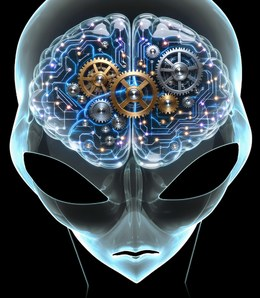
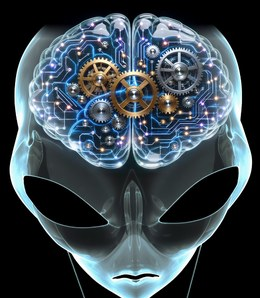
Clear wallpaper: head moved down, brain stays; eye-hold spots follow

diff --git a/app/src/main/java/com/jp/otherworld/wallpaper/Wallpapers.kt b/app/src/main/java/com/jp/otherworld/wallpaper/Wallpapers.kt
@@ -197,6 +197,8 @@ open class AlienWallpaperService : WallpaperService() {
     open val withBrain = false
     /** Brain picture, already fitted to this alien's head (face-sized, 2×). */
     open val brainAsset = "alien_brain_layer.webp"
+    /** Moves the face down by this share of its height (the brain stays put). */
+    open val faceDrop = 0f
     override fun onCreateEngine(): Engine = AlienEngine()
 
     private inner class AlienEngine : Engine(), android.hardware.SensorEventListener {
@@ -392,7 +394,8 @@ open class AlienWallpaperService : WallpaperService() {
                 val place = alienPlace(c.width.toFloat(), c.height.toFloat(), alien.width, alien.height)
                 val sc = place.width() / alien.width
                 val aw = place.width(); val ah = place.height()
-                val l = place.left + moveX; val top = place.top + float + moveY
+                val drop = place.height() * faceDrop
+                val l = place.left + moveX; val top = place.top + float + moveY + drop
                 val g = 1.12f
                 // Hidden drawer: 0 = whole face, 1 = broken apart and gone.
                 val gone = com.jp.otherworld.data.AlienSignals.shatterProgress(now)
@@ -422,7 +425,9 @@ open class AlienWallpaperService : WallpaperService() {
                 // out below the eyes; same size as the face at 2×). Screened, so it glows through the mesh
                 // exactly as if it sat behind it (screen works the same in either order).
                 brain?.let { b ->
-                    brainRect.set(0f, 0f, alien.width.toFloat(), alien.height.toFloat())
+                    // Same place as before the face moved down: undo the drop for the brain.
+                    val up = alien.height * faceDrop
+                    brainRect.set(0f, -up, alien.width.toFloat(), alien.height - up)
                     c.drawBitmap(b, null, brainRect, brainPaint)
                 }
                 c.restoreToCount(save)
@@ -536,6 +541,7 @@ class AlienClearWallpaperService : AlienWallpaperService() {
     override val seam = 0xFFE8FBFF.toInt()
     override val withBrain = true
     override val brainAsset = "alien_clear_brain_layer.webp"
+    override val faceDrop = CLEAR_FACE_DROP
 }
 
 /** White (ice) alien with the user's brain (art/originals/brain.svg) glowing inside the skull. */
@@ -603,6 +609,13 @@ fun alienPlace(w: Float, h: Float, iw: Int, ih: Int): RectF {
 }
 private const val ALIEN_KEEP_W = 0.85f   // share of the face's width always on screen
 private const val ALIEN_EYES_Y = 0.58f   // eye line, as a fraction of the image height
+
+const val CLEAR_FACE_DROP = 0.08f
+
+/** How far the set alien wallpaper's face is moved down (share of its height), for placing its eyes. */
+fun alienFaceDrop(context: android.content.Context): Float = runCatching {
+    if (android.app.WallpaperManager.getInstance(context).wallpaperInfo?.serviceName?.endsWith("AlienClearWallpaperService") == true) CLEAR_FACE_DROP else 0f
+}.getOrDefault(0f)
 
 /** Alien image size (width, height) — needed to place the eyes on screen the way the wallpaper does. */
 fun alienSize(context: android.content.Context): Pair<Int, Int> {

diff --git a/app/src/main/java/com/jp/otherworld/HomeActivity.kt b/app/src/main/java/com/jp/otherworld/HomeActivity.kt
@@ -203,10 +203,10 @@ class HomeActivity : ComponentActivity() {
             }
 
             var eyesHeld by remember { mutableStateOf(false) }
-            val alienEyes by produceState<AlienEyes?>(null) {
+            val alienEyes by produceState<AlienEyes?>(null, homePresses) {
                 value = withContext(Dispatchers.Default) {
                     val (w, h) = com.jp.otherworld.wallpaper.alienSize(context)
-                    AlienEyes(com.jp.otherworld.wallpaper.alienEyeSpots(context), w, h)
+                    AlienEyes(com.jp.otherworld.wallpaper.alienEyeSpots(context), w, h, com.jp.otherworld.wallpaper.alienFaceDrop(context))
                 }
             }
             // Room around each eye for the face's float, tilt (~6% of the width) and lean (~3%) plus a fingertip.
@@ -569,12 +569,12 @@ private fun Modifier.leanAlien(): Modifier = pointerInput(Unit) {
 }
 
 /** The two eyes of the alien wallpaper: spots as fractions of the image, plus the image size. */
-private class AlienEyes(val spots: List<android.graphics.RectF>, val imgW: Int, val imgH: Int) {
+private class AlienEyes(val spots: List<android.graphics.RectF>, val imgW: Int, val imgH: Int, val drop: Float = 0f) {
     /** Each eye on a screen of w×h, placed the way the wallpaper draws it ([alienPlace]). */
     fun onScreen(w: Float, h: Float): List<androidx.compose.ui.geometry.Rect> {
         val p = com.jp.otherworld.wallpaper.alienPlace(w, h, imgW, imgH)
         val sc = p.width() / imgW
-        val l = p.left; val t = p.top
+        val l = p.left; val t = p.top + p.height() * drop
         return spots.map { androidx.compose.ui.geometry.Rect(l + it.left * imgW * sc, t + it.top * imgH * sc, l + it.right * imgW * sc, t + it.bottom * imgH * sc) }
     }
 }

diff --git a/art/README.md b/art/README.md
@@ -82,3 +82,4 @@ generated/icon/store/: play_store_512.png (Play listing), app_store_1024.png (no
 | originals/brain.svg, originals/brain_glass.png | The user's brain art (magnific, 2026-10-12). brain_glass.png ("this one is the right one") cropped to the brain, near-black lifted to pure black, then (user: "make glass brain fill the head") scaled to the full face width, cut to the head silhouette with the eye holes clear and faded out below the eyes → assets/alien_brain_layer.webp (2× face size). Screened on the new "Brain" wallpaper = the white (ice) alien. derived/brain_cut.png = the SVG version's cut-out (not used). |
 | originals/alien_glass.png → derived/alien_clear.png | The user's glass alien (magnific, 2026-10-13, "this one"): aligned to originals/alien.png by the eye holes (scale 0.543), brightness → see-through (alpha = (v/150)^0.6), 521×597. Shipped as assets/alien_clear.png; "Clear" wallpaper = this + the glass brain filling the head. Replaces my earlier see-through mesh version. |
 | assets/alien_clear_brain_layer.webp | "make brain fit better" (2026-10-13): the glass brain fitted to the glass alien's own dome: 92% of its widest part above the eyes (capped so it ends at mid-eye), centred, kept just inside the glass rim, eyes clear, soft fade at the bottom. Used only by the Clear wallpaper. |
+| Clear: face moved down | "bring head down further leave brain where it is" (2026-10-13): the Clear wallpaper draws the glass face 8% of its height lower (faceDrop), the brain layer stays put; the eye-hold spots move with it; the source's flat-cut top is faded over 5%. |
